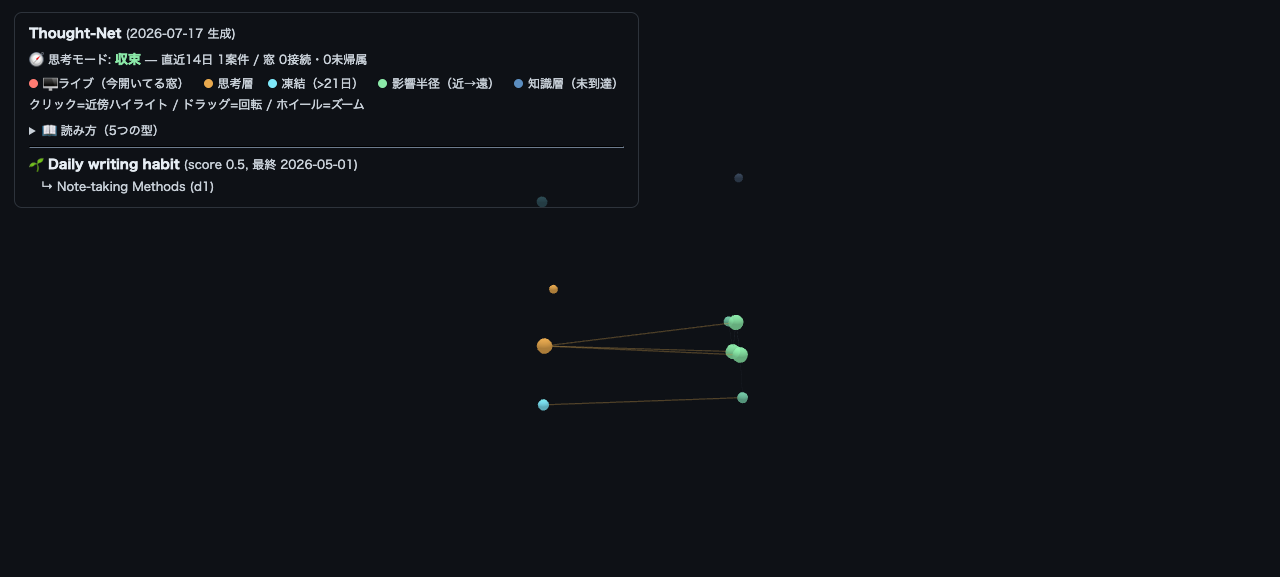
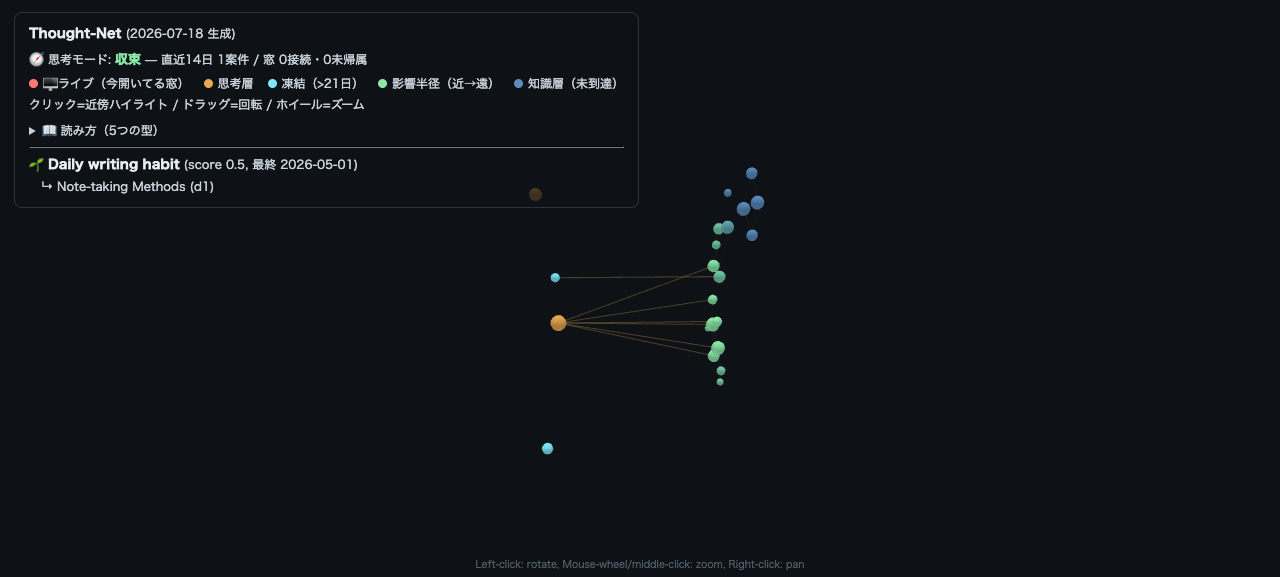
docs: enrich demo sample vault (18 notes, 3 clusters) and refresh screenshot

diff --git a/sample-vault/notes/context-switching.md b/sample-vault/notes/context-switching.md
@@ -1,0 +1,4 @@
+---
+title: Context Switching Cost
+---
+Switching tasks drains focus — the enemy of [[deep-work]] and [[time-blocking]].

diff --git a/sample-vault/notes/elaboration.md b/sample-vault/notes/elaboration.md
@@ -1,0 +1,4 @@
+---
+title: Elaboration
+---
+Connecting new ideas to known ones. Boosts [[active-recall]] and [[zettelkasten]] linking.

diff --git a/sample-vault/notes/evergreen-notes.md b/sample-vault/notes/evergreen-notes.md
@@ -1,0 +1,4 @@
+---
+title: Evergreen Notes
+---
+Notes you develop over time. Grow from [[zettelkasten]] and feed [[writing-workflow]].

diff --git a/sample-vault/notes/feynman-technique.md b/sample-vault/notes/feynman-technique.md
@@ -1,0 +1,4 @@
+---
+title: Feynman Technique
+---
+Explain simply to find gaps. A form of [[active-recall]].

diff --git a/sample-vault/notes/habit-stacking.md b/sample-vault/notes/habit-stacking.md
@@ -1,0 +1,4 @@
+---
+title: Habit Stacking
+---
+Attach new habits to existing ones. Supports [[writing-workflow]] consistency.

diff --git a/sample-vault/notes/interleaving.md b/sample-vault/notes/interleaving.md
@@ -1,0 +1,4 @@
+---
+title: Interleaving
+---
+Mixing topics while studying. Complements [[spaced-repetition]] and [[active-recall]].

diff --git a/sample-vault/notes/memory-palace.md b/sample-vault/notes/memory-palace.md
@@ -1,0 +1,4 @@
+---
+title: Memory Palace
+---
+Spatial mnemonic. Another angle on [[spaced-repetition]] retention.

diff --git a/sample-vault/notes/pomodoro.md b/sample-vault/notes/pomodoro.md
@@ -1,0 +1,4 @@
+---
+title: Pomodoro Technique
+---
+Timed focus intervals. A tactic within [[deep-work]].

diff --git a/sample-vault/notes/reading-notes.md b/sample-vault/notes/reading-notes.md
@@ -1,0 +1,4 @@
+---
+title: Reading Notes
+---
+Capture while reading. Feeds [[zettelkasten]] and [[note-taking]].

diff --git a/sample-vault/notes/time-blocking.md b/sample-vault/notes/time-blocking.md
@@ -1,0 +1,4 @@
+---
+title: Time Blocking
+---
+Schedule work in blocks. Pairs with [[deep-work]] and [[pomodoro]].

diff --git a/sample-vault/notes/writing-workflow.md b/sample-vault/notes/writing-workflow.md
@@ -1,0 +1,4 @@
+---
+title: Writing Workflow
+---
+Turn [[evergreen-notes]] into drafts. Linked to [[note-taking]] and [[deep-work]].

diff --git a/sample-vault/notes/zettelkasten.md b/sample-vault/notes/zettelkasten.md
@@ -1,0 +1,4 @@
+---
+title: Zettelkasten
+---
+Atomic notes linked into a web. Foundation of [[note-taking]] and [[evergreen-notes]]. See notes/active-recall.md.